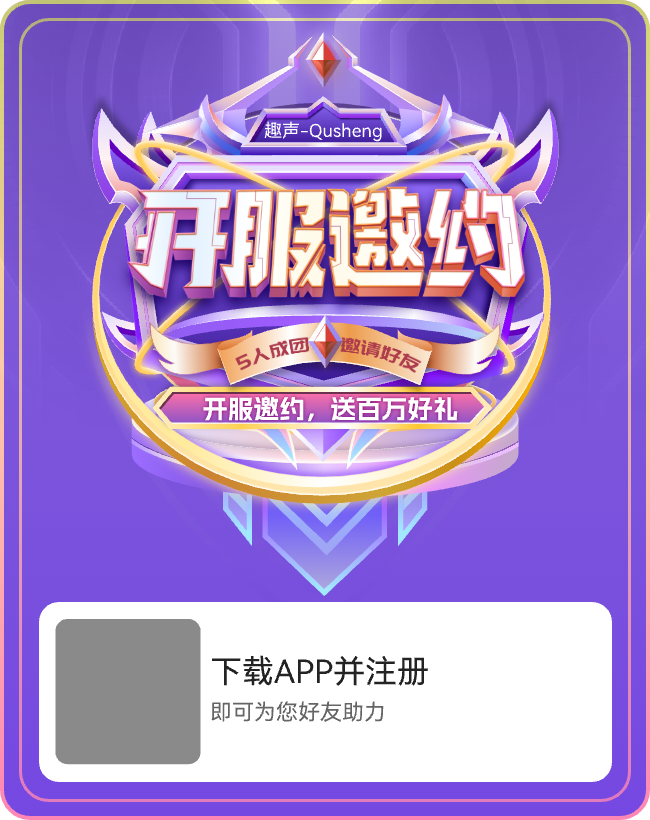
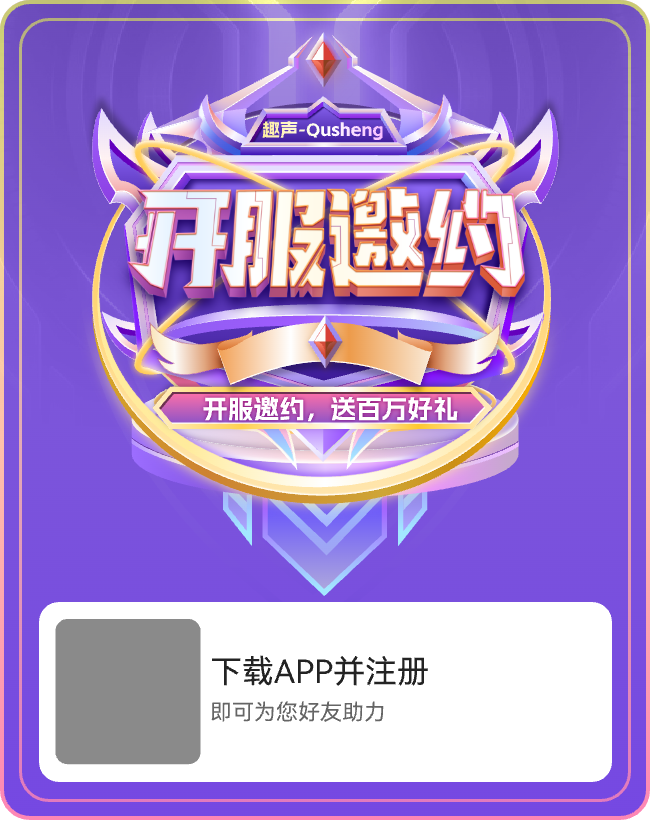
feat: 优化活动模块，更新API和资源
- 更新团队宝箱API路径和类型定义
- 替换图片资源(删除旧资源，新增按钮图片)
- 优化HeroSection、MillionCheckinModule等组件
- 新增MillionTaskSection常量配置

Changed region(s): [[0.4, 0.122, 0.5846, 0.1829], [0.3692, 0.3963, 0.4923, 0.4573], [0.5231, 0.3963, 0.6462, 0.4573]]

diff --git a/src/pages/home/components/MillionCheckinModule/index.vue b/src/pages/home/components/MillionCheckinModule/index.vue
@@ -3,7 +3,6 @@
     <NoticeSection :notice-text-list="noticeTextList" />
     <MillionRewardSection :reward-list="rewardList" />
     <MillionTaskSection
-      :dress-up-list="millionDressUpList"
       :progress-percent="progressPercent"
       :chest-status="chestInfo?.status ?? 0"
       :current-participation-count="chestInfo?.currentParticipationCount ?? 0"
@@ -17,11 +16,8 @@
     <!-- <BoardSection :rank-list="rankList" /> -->
     <MillionPurchasePopup
       v-if="purchasePopupVisible && selectedDressUpItem"
-      :dress-up-item-id="selectedDressUpItem.itemId"
-      :dress-up-name="selectedDressUpItem.name"
-      :dress-up-image="selectedDressUpItem.image"
+      :dress-up-item="selectedDressUpItem"
       :quantity="pendingJoinQuantity"
-      :single-participation-amount="chestInfo?.singleParticipationAmount ?? 0"
       @close="handleClosePurchasePopup"
       @success="handlePurchaseSuccess"
     />
@@ -39,11 +35,12 @@ import LuckySection from "../LuckySection/index.vue";
 import type { ILuckyDisplayItem } from "../LuckySection/index.vue";
 import MillionRewardSection from "./components/MillionRewardSection/index.vue";
 import MillionTaskSection from "./components/MillionTaskSection/index.vue";
-import { millionDefaultNoticeText, millionDressUpList, millionPrizeFallbackList } from "./const";
+import type { IPurchaseItem } from "./components/MillionTaskSection/const";
+import { millionDefaultNoticeText, millionPrizeFallbackList } from "./const";
 
 const chestInfo = ref<IChestInfo | null>(null);
 const loading = ref(false);
-const selectedDressUpItemId = ref<number>(millionDressUpList[0]?.itemId ?? 0);
+const selectedDressUpItem = ref<IPurchaseItem | null>(null);
 const purchasePopupVisible = ref(false);
 const pendingJoinQuantity = ref(1);
 
@@ -51,10 +48,6 @@ const emit = defineEmits<{
   (event: "mode-change", mode: string): void;
   (event: "show-rule", type: string): void;
 }>();
-
-const selectedDressUpItem = computed(() => {
-  return millionDressUpList.find((item) => item.itemId === selectedDressUpItemId.value) ?? null;
-});
 
 const rewardList = computed(() => {
   if (!chestInfo.value) {
@@ -143,8 +136,8 @@ const loadGlobalChestInfo = async () => {
   }
 };
 
-const handlePurchaseDressUp = (dressUpItemId: number) => {
-  selectedDressUpItemId.value = dressUpItemId;
+const handlePurchaseDressUp = (item: IPurchaseItem) => {
+  selectedDressUpItem.value = item;
   pendingJoinQuantity.value = 1;
   purchasePopupVisible.value = true;
 };

diff --git a/src/pages/home/components/MillionCheckinModule/components/MillionPurchasePopup/index.vue b/src/pages/home/components/MillionCheckinModule/components/MillionPurchasePopup/index.vue
@@ -12,10 +12,10 @@
 
         <p v-if="isSuccess" class="million-purchase-popup-success-text">恭喜您！您购买的头像框<br/>已经发放到您的个性装扮中！</p>
 
-        <img class="million-purchase-popup-image" :src="props.dressUpImage" :alt="props.dressUpName" />
+        <img class="million-purchase-popup-image" :src="props.dressUpItem.image" :alt="props.dressUpItem.name" />
         <div class="million-reward-platform">
           <img :src="millionCheckinAssets.prizePlatform" alt="奖品平台">
-          <p class="million-reward-name">{{ props.dressUpName }}</p>
+          <p class="million-reward-name">{{ props.dressUpItem.name }}</p>
         </div>
 
         <template v-if="!isSuccess">
@@ -61,13 +61,11 @@ import { joinGlobalChest } from "@/api/chest/global";
 import { getWalletAmount } from "@/api/user";
 import { rechargeMoney } from "@/util/bridge";
 import { millionCheckinAssets } from "../../const";
+import type { IPurchaseItem } from "../MillionTaskSection/const";
 
 const props = defineProps<{
-  dressUpItemId: number;
-  dressUpName: string;
-  dressUpImage: string;
+  dressUpItem: IPurchaseItem;
   quantity: number;
-  singleParticipationAmount: number;
 }>();
 
 const emit = defineEmits<{
@@ -108,7 +106,7 @@ const popupTitle = computed(() => {
 });
 
 const totalPrice = computed(() => {
-  return Math.max(1, localQuantity.value) * props.singleParticipationAmount;
+  return Math.max(1, localQuantity.value) * props.dressUpItem.price;
 });
 
 const handleMinus = () => {
@@ -142,7 +140,7 @@ const handleConfirm = async () => {
   submitting.value = true;
   try {
     const response = await joinGlobalChest({
-      dressUpItemId: props.dressUpItemId,
+      dressUpItemId: props.dressUpItem.id,
       quantity: localQuantity.value,
     });
     resolveApiResult(response);

diff --git a/src/pages/home/components/MillionCheckinModule/components/MillionTaskSection/index.vue b/src/pages/home/components/MillionCheckinModule/components/MillionTaskSection/index.vue
@@ -9,13 +9,13 @@
       </p>
       <div class="million-task-grid">
         <article
-          v-for="item in props.dressUpList"
+          v-for="item in millionDressUpList"
           :key="item.id"
           class="million-task-card"
         >
           <img class="million-task-image" :src="item.image" :alt="item.name" />
           <p class="million-task-name">{{ item.name }}</p>
-          <button class="million-task-buy" type="button" @click="emit('purchase', item.itemId)">
+          <button class="million-task-buy" type="button" @click="handlePurchase(item)">
             <img :src="millionCheckinAssets.confirmButton" alt="购买" />
             <div class="text">购买</div>
           </button>
@@ -43,11 +43,11 @@
 </template>
 
 <script setup lang="ts">
-import type { IMillionDressUpItem } from "../../const";
+import type { IMillionDressUpItem, IPurchaseItem } from "./const";
+import { millionDressUpList } from "./const";
 import { millionCheckinAssets } from "../../const";
 
 const props = defineProps<{
-  dressUpList: IMillionDressUpItem[];
   progressPercent: number;
   chestStatus: number;
   currentParticipationCount: number;
@@ -56,10 +56,19 @@ const props = defineProps<{
 }>();
 
 const emit = defineEmits<{
-  (event: "purchase", dressUpItemId: number): void;
+  (event: "purchase", item: IPurchaseItem): void;
   (event: "show-rule", type: string): void;
   (event: "show-records"): void;
 }>();
+
+const handlePurchase = (item: IMillionDressUpItem) => {
+  emit("purchase", {
+    id: item.itemId,
+    price: props.singleParticipationAmount,
+    image: item.image,
+    name: item.name,
+  });
+};
 
 const steps = ["25%", "50%", "75%", "100%"];
 

diff --git a/src/pages/home/components/HeroSection/const.ts b/src/pages/home/components/HeroSection/const.ts
@@ -2,9 +2,8 @@ export const heroAssets = {
   topBackground: new URL("../../../../assets/top-background.png", import.meta.url).href,
   backButton: new URL("../../../../assets/back-button.png", import.meta.url).href,
   allPrizes: new URL("../../../../assets/all-prizes.png", import.meta.url).href,
-  millionCheckin: new URL("../../../../assets/million-checkin.png", import.meta.url).href,
-  ruleDescription: new URL("../../../../assets/rule-description.png", import.meta.url).href,
-  teamCharge: new URL("../../../../assets/team-charge.png", import.meta.url).href,
+  mainBtnActive: new URL("../../../../assets/main-btn-active.png", import.meta.url).href,
+  mainBtnNormal: new URL("../../../../assets/main-btn-normal.png", import.meta.url).href,
 };
 
 export enum HeroMode {
@@ -15,14 +14,13 @@ export enum HeroMode {
 
 export interface IHeroModeOption {
   mode: HeroMode;
-  image: string;
-  alt: string;
+  label: string;
 }
 
 export const heroModeOptions: IHeroModeOption[] = [
-  { mode: HeroMode.MILLION_CHECKIN, image: heroAssets.millionCheckin, alt: "百万打卡" },
-  { mode: HeroMode.TEAM_CHARGE, image: heroAssets.teamCharge, alt: "组队冲榜" },
-  { mode: HeroMode.RULE_DESCRIPTION, image: heroAssets.ruleDescription, alt: "规则说明" },
+  { mode: HeroMode.MILLION_CHECKIN, label: "百万打卡" },
+  { mode: HeroMode.TEAM_CHARGE, label: "战队冲锋" },
+  { mode: HeroMode.RULE_DESCRIPTION, label: "规则说明" },
 ];
 
 export const heroText = {

diff --git a/src/api/chest/teamChest.ts b/src/api/chest/teamChest.ts
@@ -108,18 +108,5 @@ export const getTeamChestHistory = (): Promise<IApiResponse<ITeamHistoryItem[]>>
 };
 
 export const getTeamChestPrizeList = (): Promise<IApiResponse<IPrizeItem[]>> => {
-  return post<IApiResponse<IPrizeItem[]>>("/act/chest/team/prizeList");
-  // mock for now
-  // return Promise.resolve({
-  //   code: 200,
-  //   msg: "success",
-  //   data: [
-  //     { id: 1, itemId: 1, name: "HUAWEI Mate 60 RS", image: "https://minigame-img.feiguyuyin.com/gusheng_server_launch/first_prize_demo.png", value: 1000 },
-  //     { id: 2, itemId: 2, name: "PS5", image: "https://minigame-img.feiguyuyin.com/gusheng_server_launch/first_prize_demo.png", value: 800 },
-  //     { id: 3, itemId: 3, name: "Nintendo Switch", image: "https://minigame-img.feiguyuyin.com/gusheng_server_launch/first_prize_demo.png", value: 600 },
-  //     { id: 4, itemId: 4, name: "Apple iPad", image: "https://minigame-img.feiguyuyin.com/gusheng_server_launch/first_prize_demo.png", value: 500 },
-  //     { id: 5, itemId: 5, name: "京东卡 500元", image: "https://minigame-img.feiguyuyin.com/gusheng_server_launch/first_prize_demo.png", value: 100 },
-  //     { id: 6, itemId: 6, name: "定制周边", image: "https://minigame-img.feiguyuyin.com/gusheng_server_launch/first_prize_demo.png", value: 50 },
-  //   ],
-  // });
+  return post<IApiResponse<IPrizeItem[]>>("/act/chest/prize/list");
 };

diff --git a/src/pages/home/components/HeroSection/index.less b/src/pages/home/components/HeroSection/index.less
@@ -33,19 +33,49 @@
     gap: 16px;
 
     .hero-mode-btn {
-      width: 108px;
+      position: relative;
+      height: 80px;
       border: 0;
       padding: 0;
       background: transparent;
       transition: transform 0.2s ease;
+      display: flex;
+      align-items: center;
+      justify-content: center;
 
-      &.is-active {
-
+      &.is-active{
+        transform: translateY(-3px);
+        .hero-mode-btn-text{
+          transform: translateY(-2px);
+        }
       }
 
-      img {
-        width: 100%;
+      .hero-mode-btn-bg {
+        position: relative;
         display: block;
+        width: 100%;
+        object-fit: cover;
+        z-index: 1;
+      }
+
+      .hero-mode-btn-text {
+        position: absolute;
+        display: flex;
+        justify-content: center;
+        align-items: center;
+        transform: translateY(-4px);
+        top: 0;
+        left: 0;
+        width: 100%;
+        height: 100%;
+        z-index: 2;
+        font-size: 16px;
+        font-weight: bold;
+        background: linear-gradient(180deg, #F6D191 0%, #FFFFFF 100%);
+        -webkit-background-clip: text;
+        -webkit-text-fill-color: transparent;
+        background-clip: text;
+        text-fill-color: transparent;
       }
     }
   }

diff --git a/src/pages/home/components/SharePopup/index.vue b/src/pages/home/components/SharePopup/index.vue
@@ -15,7 +15,6 @@
 </template>
 
 <script setup lang="ts">
-import { ref } from "vue";
 import { showToast, showLoadingToast } from "vant";
 import { shareImageToWechat, saveImageToLocal } from "@/util/bridge";
 import { generateShareImageBase64 } from "./const";
@@ -59,20 +58,6 @@ const handleSaveImage = async () => {
   });
   try {
     const base64 = await generateShareImageBase64(invitationImg, qrcodeImg);
-    console.log('base64',base64);
-    
-    // 用于测试预览生成的图片
-    const img = document.createElement('img');
-    img.src = base64;
-    img.style.position = 'fixed';
-    img.style.top = '0';
-    img.style.left = '0';
-    img.style.width = '100%';
-    img.style.zIndex = '9999';
-    // 点击图片时移除，方便继续操作
-    img.onclick = () => document.body.removeChild(img);
-    document.body.appendChild(img);
-
     await saveImageToLocal(base64);
     showToast("保存图片成功");
   } catch (error) {

diff --git a/src/pages/home/components/MillionCheckinModule/const.ts b/src/pages/home/components/MillionCheckinModule/const.ts
@@ -38,19 +38,6 @@ export const millionPrizeFallbackList: IMillionPrizeDisplayItem[] = [
     {id: 3, itemId: 3, name: "Apple Watch Ultra 3", label: "三等奖", image: millionCheckinAssets.prize3, quantity: 1},
 ];
 
-export interface IMillionDressUpItem {
-    id: number;
-    itemId: number;
-    name: string;
-    image: string;
-}
-
-export const millionDressUpList: IMillionDressUpItem[] = [
-    {id: 1, itemId: 10086, name: "圣翼之光", image: millionCheckinAssets.frame1},
-    {id: 2, itemId: 10087, name: "盛典之星", image: millionCheckinAssets.frame2},
-    {id: 3, itemId: 10088, name: "璀璨之星", image: millionCheckinAssets.frame3},
-];
-
 export const millionAvatarFallbacks = [
     millionCheckinAssets.avatar1,
     millionCheckinAssets.avatar2,

diff --git a/src/pages/home/components/MillionCheckinModule/components/MillionTaskSection/index.less b/src/pages/home/components/MillionCheckinModule/components/MillionTaskSection/index.less
@@ -1,3 +1,15 @@
+@keyframes btn-shine {
+  0% {
+    left: -100%;
+  }
+  20% {
+    left: 200%;
+  }
+  100% {
+    left: 200%;
+  }
+}
+
 .million-task {
   margin: 10px 14px 0;
   position: relative;
@@ -91,6 +103,20 @@
     background: transparent;
     position: relative;
     margin: 0 auto;
+    overflow: hidden;
+    border-radius: 4px;
+
+    &::after {
+      content: '';
+      position: absolute;
+      top: 0;
+      left: -100%;
+      width: 50%;
+      height: 100%;
+      background: linear-gradient(to right, rgba(255,255,255,0) 0%, rgba(255,255,255,0.4) 50%, rgba(255,255,255,0) 100%);
+      transform: skewX(-20deg);
+      animation: btn-shine 2.5s infinite;
+    }
 
     .text {
       position: absolute;

diff --git a/src/pages/home/components/InitiateActivityPopup/index.vue b/src/pages/home/components/InitiateActivityPopup/index.vue
@@ -19,7 +19,7 @@
             @click="selectPrize(item.id)"
           >
             <div class="million-reward-image-shell">
-              <img class="million-reward-image" :src="item.image" :alt="item.name" />
+              <img class="million-reward-image" :src="item.imageUrl" :alt="item.name" />
             </div>
             <div class="million-reward-platform">
               <img :src="millionCheckinAssets.prizePlatform" alt="奖品平台">
@@ -128,7 +128,7 @@ const emitNext = async () => {
   if (!selectedPrize) return;
 
   selections.value.push({
-    itemId: selectedPrize.itemId,
+    itemId: selectedPrize.id,
     quantity: quantity.value
   });
 

diff --git a/src/pages/home/components/MillionCheckinModule/components/MillionTaskSection/const.ts b/src/pages/home/components/MillionCheckinModule/components/MillionTaskSection/const.ts
@@ -1,0 +1,21 @@
+import { millionCheckinAssets } from "../../const";
+
+export interface IMillionDressUpItem {
+    id: number;
+    itemId: number;
+    name: string;
+    image: string;
+}
+
+export const millionDressUpList: IMillionDressUpItem[] = [
+    {id: 1, itemId: 5287, name: "圣翼之光", image: millionCheckinAssets.frame1},
+    {id: 2, itemId: 5286, name: "盛典之星", image: millionCheckinAssets.frame2},
+    {id: 3, itemId: 5285, name: "璀璨之星", image: millionCheckinAssets.frame3},
+];
+
+export interface IPurchaseItem {
+    id: number;
+    price: number;
+    image: string;
+    name: string;
+}

diff --git a/src/pages/home/components/TeamChargeModule/index.vue b/src/pages/home/components/TeamChargeModule/index.vue
@@ -75,7 +75,8 @@ import SharePopup from "../SharePopup/index.vue";
 import AddressPopup from "../AddressPopup/index.vue";
 import LuckySection from "../LuckySection/index.vue";
 import type { ILuckyDisplayItem } from "../LuckySection/index.vue";
-import { millionDressUpList, millionPrizeFallbackList } from "../MillionCheckinModule/const";
+import { millionPrizeFallbackList } from "../MillionCheckinModule/const";
+import { millionDressUpList } from "../MillionCheckinModule/components/MillionTaskSection/const";
 import { TeamModuleStatus, resolveApiResult } from "./const";
 
 const emit = defineEmits<{
